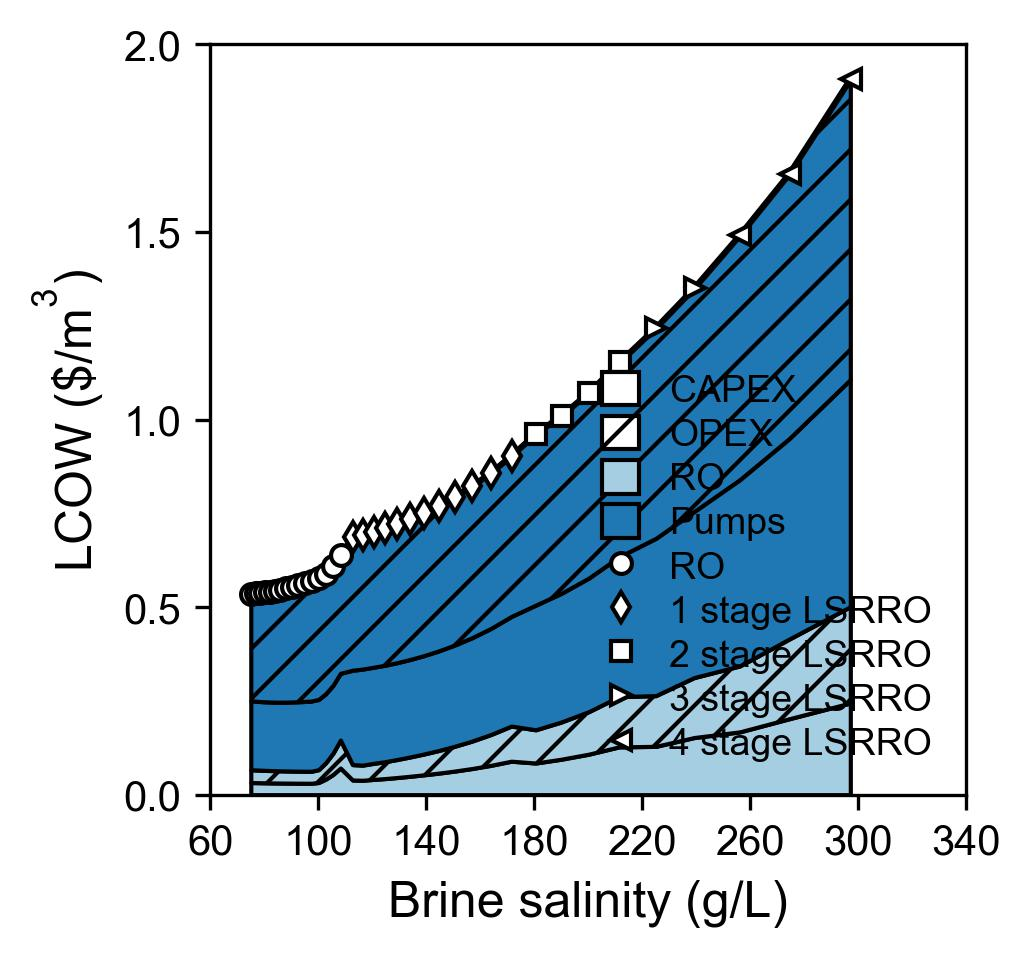
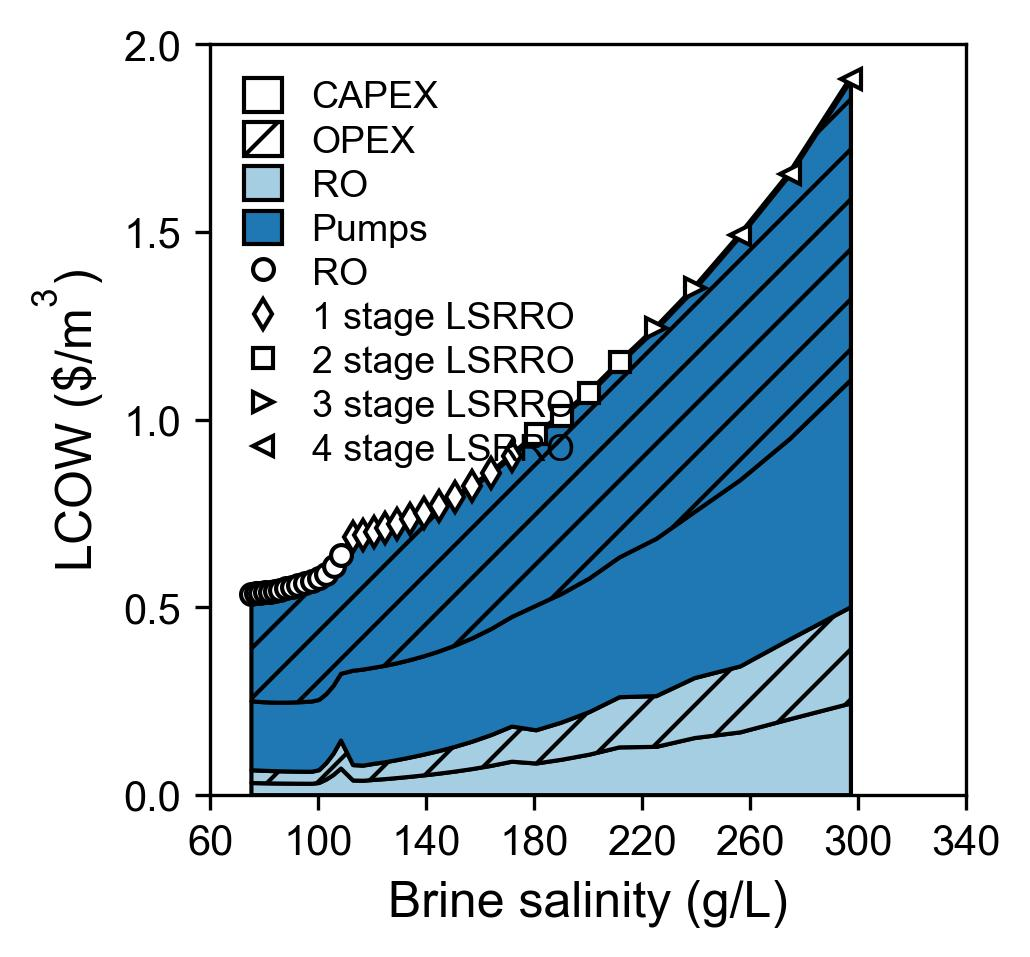
fix example

diff --git a/psPlotKit/data_plotter/ps_break_down_plotter.py b/psPlotKit/data_plotter/ps_break_down_plotter.py
@@ -206,7 +206,8 @@ class breakDownPlotter:
                         cur_line["label"] = plot_label
                         self.plot_areas[akey] = cur_line
         self.plot_order = []
-        for akey in self.area_groups[::-1]:
+        print("self.area_groups", self.area_groups)
+        for akey in self.area_groups:
             if isinstance(akey, dict):
                 akey, item = list(akey.items())[0]
             for key in self.plot_areas.keys():

diff --git a/psPlotKit/examples/cost_plotting.py b/psPlotKit/examples/cost_plotting.py
@@ -65,7 +65,7 @@ if __name__ == "__main__":
                 "yticks": [0, 0.5, 1.0, 1.5, 2.0],
                 "xticks": xticks,
             },
-            generate_plot=False,
+            generate_figure=False,
         )
 
         num_stages = costing_data[("stacked_data", "number_of_stages")].data
